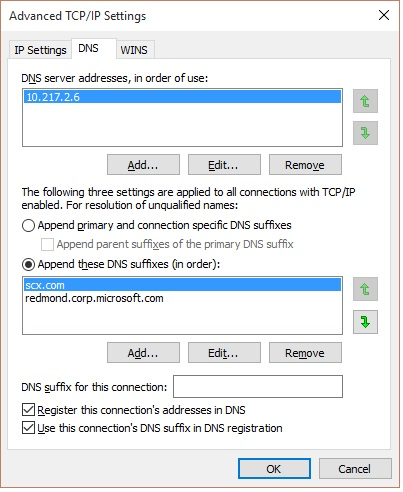
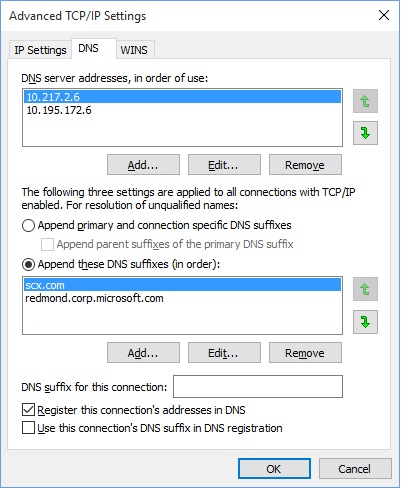
Update README & Advanced TCP Properties image for backup DNS server

diff --git a/README.md b/README.md
@@ -85,7 +85,7 @@ Select "Internet Protocol Version 4 (TP/IP v4) and click "Properties" button:
 </body>
 </html>
 
-Select "Use the following DNS server addresses:", enter 10.217.2.6, and click "Advanced":
+Select "Use the following DNS server addresses:", enter 10.217.2.6, along with the backup DNS server 10.195.172.6 and click "Advanced":
 
 <html>
 <body>
